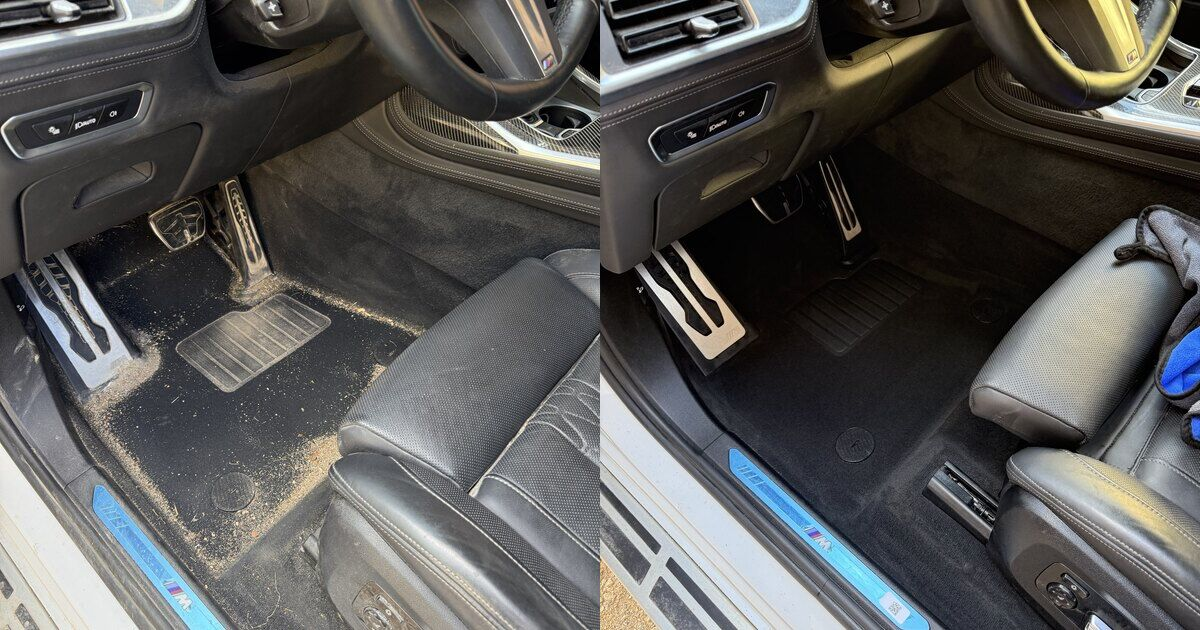
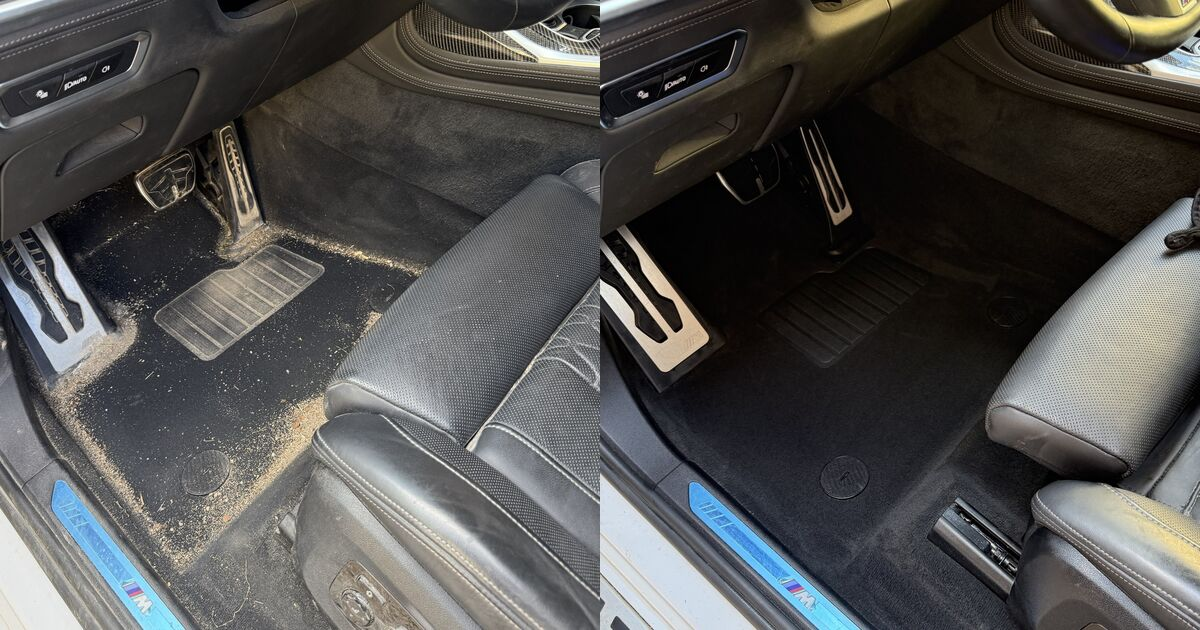
Tap-to-reveal before/after photos with aligned crops
Before photos are warped onto the after photos (SIFT + homography) and
cropped to the same 4:5 frame, so the wipe shows only what changed.

Claude-Session: https://claude.ai/code/session_01RYSB4jk7B3cR4GPf7nR2uH

diff --git a/richcarsdetailing/dist/index.html b/richcarsdetailing/dist/index.html
@@ -28,7 +28,8 @@
   <link rel="preload" href="fonts/manrope-latin-wght-normal.woff2" as="font" type="font/woff2" crossorigin>
   <link rel="preload" href="fonts/manrope-latin-ext-wght-normal.woff2" as="font" type="font/woff2" crossorigin>
 
-  <style>@font-face{font-family: "Manrope";font-style: normal;font-display: swap;font-weight: 200 800;src: url("fonts/manrope-latin-ext-wght-normal.woff2") format("woff2-variations");unicode-range: U+0100-02BA,U+02BD-02C5,U+02C7-02CC,U+02CE-02D7,U+02DD-02FF,U+0304,U+0308,U+0329,U+1D00-1DBF,U+1E00-1E9F,U+1EF2-1EFF,U+2020,U+20A0-20AB,U+20AD-20C0,U+2113,U+2C60-2C7F,U+A720-A7FF}@font-face{font-family: "Manrope";font-style: normal;font-display: swap;font-weight: 200 800;src: url("fonts/manrope-latin-wght-normal.woff2") format("woff2-variations");unicode-range: U+0000-00FF,U+0131,U+0152-0153,U+02BB-02BC,U+02C6,U+02DA,U+02DC,U+0304,U+0308,U+0329,U+2000-206F,U+20AC,U+2122,U+2191,U+2193,U+2212,U+2215,U+FEFF,U+FFFD}:root{--bg: #f6f3ee;--bg-tint: #ece7df;--surface: #ffffff;--ink: #1f2226;--ink-2: #4a4f56;--line: #ddd6cb;--graphite: #26292d;--on-graphite: #f6f3ee;--on-graphite-2: #c9c4bb;--wa: #14753e;--wa-hover: #0f6233;--wa-soft: #e6f2ea;--focus: #1f2226;--radius: 14px;--radius-sm: 10px;--ease-out: cubic-bezier(0.23,1,0.32,1);--gutter: 16px;--font: "Manrope",system-ui,-apple-system,"Segoe UI",Roboto,Arial,sans-serif}@media (min-width: 600px){:root{--gutter: 24px}}@media (min-width: 960px){:root{--gutter: 40px}}*,*::before,*::after{box-sizing: border-box}html{-webkit-text-size-adjust: 100%;text-size-adjust: 100%;scroll-behavior: smooth;scroll-padding-top: 16px;scroll-padding-bottom: 96px}@media (prefers-reduced-motion: reduce){html{scroll-behavior: auto}}body{margin: 0;background: var(--bg);color: var(--ink);font-family: var(--font);font-size: 1.0625rem;line-height: 1.55;-webkit-font-smoothing: antialiased;-webkit-tap-highlight-color: transparent}img{display: block;max-width: 100%;height: auto}h1,h2,h3{margin: 0;line-height: 1.12;letter-spacing: -0.02em;text-wrap: balance}p{margin: 0;text-wrap: pretty}ul,ol{margin: 0;padding: 0}[role="list"]{list-style: none}a{color: inherit;text-underline-offset: 3px;text-decoration-thickness: 1px}:focus-visible{outline: 3px solid var(--focus);outline-offset: 3px;border-radius: 6px}.section--dark :focus-visible,.sticky-cta :focus-visible{--focus: #ffffff}.skip-link{position: absolute;left: var(--gutter);top: -100px;z-index: 100;background: var(--ink);color: #fff;padding: 10px 14px;border-radius: var(--radius-sm);font-weight: 700}.skip-link:focus{top: 12px}.container{width: 100%;max-width: 1180px;margin-inline: auto;padding-inline: var(--gutter)}.container--narrow{max-width: 820px}.icon{width: 20px;height: 20px;flex: none}.site-header__inner{display: flex;align-items: center;justify-content: space-between;gap: 16px;min-height: 64px}.brand{font-weight: 800;font-size: 1.125rem;letter-spacing: -0.02em;text-decoration: none}.brand span{color: var(--ink-2);font-weight: 600}.nav{display: flex;gap: 4px;list-style: none}.nav a{display: inline-block;padding: 10px 12px;font-size: 0.9375rem;font-weight: 600;color: var(--ink-2);text-decoration: none;border-radius: 8px}@media (hover: hover) and (pointer: fine){.nav a:hover{color: var(--ink);background: var(--bg-tint)}}@media (max-width: 699px){.nav__hide-sm{display: none}}.hero{padding-block: 16px 56px}.hero__grid{display: grid;gap: 32px}.hero__copy{display: flex;flex-direction: column;align-items: flex-start;gap: 18px}.eyebrow{font-size: 0.875rem;font-weight: 600;color: var(--ink-2)}h1{font-size: clamp(2.125rem,1.55rem + 2.9vw,3.75rem);font-weight: 800}.lead{font-size: 1.125rem;color: var(--ink-2);max-width: 34em}.price-row{display: inline-flex;align-items: baseline;flex-wrap: wrap;gap: 4px 10px;padding: 12px 18px;background: var(--surface);border: 1px solid var(--line);border-radius: var(--radius);font-size: 1.0625rem;font-weight: 600}.price-row__dot{color: var(--ink-2)}.price-row__value{font-size: 1.625rem;font-weight: 800;letter-spacing: -0.02em;font-variant-numeric: tabular-nums}.cta{display: flex;flex-direction: column;align-items: flex-start;gap: 10px}.cta--center{align-items: center;text-align: center;margin-top: 40px}.cta__note{font-size: 0.9375rem;color: var(--ink-2);max-width: 30em}.link-arrow{font-weight: 700;padding: 6px 0;text-decoration: underline}.btn{display: inline-flex;align-items: center;justify-content: center;gap: 10px;min-height: 52px;padding: 14px 22px;border-radius: 999px;border: 2px solid transparent;font: inherit;font-weight: 700;font-size: 1.0625rem;line-height: 1.2;text-decoration: none;cursor: pointer;user-select: none;-webkit-user-select: none;transition: transform 160ms var(--ease-out),background-color 160ms ease,color 160ms ease,border-color 160ms ease}.btn:active{transform: scale(0.97)}.btn--wa{background: var(--wa);color: #fff}.btn--wa-outline{background: transparent;color: var(--wa);border-color: var(--wa);min-height: 48px;padding: 11px 18px;font-size: 1rem}.btn--light{background: var(--on-graphite);color: var(--graphite)}.btn--block{width: 100%}@media (hover: hover) and (pointer: fine){.btn--wa:hover{background: var(--wa-hover)}.btn--wa-outline:hover{background: var(--wa-soft)}.btn--light:hover{background: #fff}}.hero__media{margin: 0}.compare{display: grid;grid-template-columns: 1fr 1fr;gap: 8px}.compare__item{position: relative;overflow: hidden;border-radius: var(--radius);background: var(--bg-tint);aspect-ratio: 800 / 1067}.compare__item img{width: 100%;height: 100%;object-fit: cover}.tag{position: absolute;left: 10px;top: 10px;padding: 5px 11px;border-radius: 999px;background: var(--graphite);color: #fff;font-size: 0.8125rem;font-weight: 700;letter-spacing: 0.02em}.tag--light{background: #fff;color: var(--graphite)}figcaption{margin-top: 12px;font-size: 0.9375rem;color: var(--ink-2)}@media (min-width: 600px){.compare{gap: 12px}}@media (min-width: 900px){.hero{padding-block: 40px 96px}.hero__grid{grid-template-columns: 1.05fr 1fr;gap: 56px;align-items: center}.hero__copy{gap: 22px}}.section{padding-block: 64px}.section--tint{background: var(--bg-tint)}.section--dark{background: var(--graphite);color: var(--on-graphite)}.section__head{max-width: 40em;margin-bottom: 32px}.section__head h2{font-size: clamp(1.75rem,1.4rem + 1.6vw,2.5rem);font-weight: 800}.section__head p{margin-top: 12px;color: var(--ink-2)}@media (min-width: 900px){.section{padding-block: 96px}}.services{display: grid;gap: 16px}.service{display: flex;flex-direction: column;gap: 12px;padding: 24px;background: var(--surface);border: 1px solid var(--line);border-radius: var(--radius)}.service h3{font-size: 1.3125rem;font-weight: 800}.service p{color: var(--ink-2)}.service .service__price{font-size: 0.9375rem;font-weight: 600;color: var(--ink);margin-top: auto;padding-top: 4px}.service .btn{align-self: flex-start}@media (min-width: 900px){.services{grid-template-columns: repeat(3,1fr);gap: 20px}}.work{margin: 0;max-width: 900px}.steps{display: grid;gap: 16px;counter-reset: none}.step{display: grid;grid-template-columns: 44px 1fr;column-gap: 16px;row-gap: 4px;align-items: start}.step__num{grid-row: span 2;display: grid;place-items: center;width: 44px;height: 44px;border-radius: 50%;background: var(--graphite);color: #fff;font-weight: 800}.step h3{font-size: 1.1875rem;font-weight: 800;padding-top: 9px}.step p{color: var(--ink-2)}@media (min-width: 900px){.steps{grid-template-columns: repeat(3,1fr);gap: 32px}}.faq{display: grid;gap: 12px}.faq__item{padding: 22px 24px;background: var(--surface);border: 1px solid var(--line);border-radius: var(--radius)}.faq__item h3{font-size: 1.1875rem;font-weight: 800}.faq__item p{margin-top: 8px;color: var(--ink-2)}.location{display: grid;gap: 32px}.location h2{font-size: clamp(1.75rem,1.4rem + 1.6vw,2.5rem);font-weight: 800}.location__address{margin-top: 20px;font-style: normal;font-size: 1.125rem;line-height: 1.6}.location__note{margin-top: 14px;color: var(--on-graphite-2)}.location__actions{display: flex;flex-direction: column;align-items: stretch;gap: 12px}.location__phone{color: var(--on-graphite-2);margin-top: 4px}.location__phone a{color: var(--on-graphite);font-weight: 700;display: inline-block;padding: 6px 0}@media (min-width: 600px){.location__actions{align-items: flex-start}}@media (min-width: 900px){.location{grid-template-columns: 1fr 1fr;align-items: center}}.site-footer{padding-block: 32px 40px;font-size: 0.9375rem;color: var(--ink-2)}.site-footer__inner{display: grid;gap: 6px}.site-footer strong{color: var(--ink)}.site-footer a{display: inline-block;padding: 4px 0}.site-footer__small{font-size: 0.875rem}.sticky-cta{position: fixed;left: 0;right: 0;bottom: 0;z-index: 50;padding: 10px var(--gutter) calc(10px + env(safe-area-inset-bottom));background: rgba(246,243,238,0.94);border-top: 1px solid var(--line);-webkit-backdrop-filter: blur(10px);backdrop-filter: blur(10px);transform: translateY(100%);visibility: hidden;transition: transform 180ms var(--ease-out),visibility 0s linear 180ms}.sticky-cta[data-visible="true"]{transform: translateY(0);visibility: visible;transition: transform 240ms var(--ease-out),visibility 0s}.sticky-cta .btn{min-height: 48px;padding-block: 11px}@media (min-width: 900px){.sticky-cta{display: none}}@media (prefers-reduced-motion: reduce){.btn:active{transform: none}.sticky-cta{transform: none;opacity: 0;transition: opacity 160ms ease,visibility 0s linear 160ms}.sticky-cta[data-visible="true"]{opacity: 1;transition: opacity 160ms ease,visibility 0s}}@media (max-width: 599px){.hero .cta,.hero .btn--wa{width: 100%}.hero .price-row{width: 100%}.service .btn{align-self: stretch}}</style>
+  <script>document.documentElement.classList.add("js")</script>
+  <style>@font-face{font-family: "Manrope";font-style: normal;font-display: swap;font-weight: 200 800;src: url("fonts/manrope-latin-ext-wght-normal.woff2") format("woff2-variations");unicode-range: U+0100-02BA,U+02BD-02C5,U+02C7-02CC,U+02CE-02D7,U+02DD-02FF,U+0304,U+0308,U+0329,U+1D00-1DBF,U+1E00-1E9F,U+1EF2-1EFF,U+2020,U+20A0-20AB,U+20AD-20C0,U+2113,U+2C60-2C7F,U+A720-A7FF}@font-face{font-family: "Manrope";font-style: normal;font-display: swap;font-weight: 200 800;src: url("fonts/manrope-latin-wght-normal.woff2") format("woff2-variations");unicode-range: U+0000-00FF,U+0131,U+0152-0153,U+02BB-02BC,U+02C6,U+02DA,U+02DC,U+0304,U+0308,U+0329,U+2000-206F,U+20AC,U+2122,U+2191,U+2193,U+2212,U+2215,U+FEFF,U+FFFD}:root{--bg: #f6f3ee;--bg-tint: #ece7df;--surface: #ffffff;--ink: #1f2226;--ink-2: #4a4f56;--line: #ddd6cb;--graphite: #26292d;--on-graphite: #f6f3ee;--on-graphite-2: #c9c4bb;--wa: #14753e;--wa-hover: #0f6233;--wa-soft: #e6f2ea;--focus: #1f2226;--radius: 14px;--radius-sm: 10px;--ease-out: cubic-bezier(0.23,1,0.32,1);--gutter: 16px;--font: "Manrope",system-ui,-apple-system,"Segoe UI",Roboto,Arial,sans-serif}@media (min-width: 600px){:root{--gutter: 24px}}@media (min-width: 960px){:root{--gutter: 40px}}*,*::before,*::after{box-sizing: border-box}html{-webkit-text-size-adjust: 100%;text-size-adjust: 100%;scroll-behavior: smooth;scroll-padding-top: 16px;scroll-padding-bottom: 96px}@media (prefers-reduced-motion: reduce){html{scroll-behavior: auto}}body{margin: 0;background: var(--bg);color: var(--ink);font-family: var(--font);font-size: 1.0625rem;line-height: 1.55;-webkit-font-smoothing: antialiased;-webkit-tap-highlight-color: transparent}img{display: block;max-width: 100%;height: auto}h1,h2,h3{margin: 0;line-height: 1.12;letter-spacing: -0.02em;text-wrap: balance}p{margin: 0;text-wrap: pretty}ul,ol{margin: 0;padding: 0}[role="list"]{list-style: none}a{color: inherit;text-underline-offset: 3px;text-decoration-thickness: 1px}:focus-visible{outline: 3px solid var(--focus);outline-offset: 3px;border-radius: 6px}.section--dark :focus-visible,.sticky-cta :focus-visible{--focus: #ffffff}.skip-link{position: absolute;left: var(--gutter);top: -100px;z-index: 100;background: var(--ink);color: #fff;padding: 10px 14px;border-radius: var(--radius-sm);font-weight: 700}.skip-link:focus{top: 12px}.container{width: 100%;max-width: 1180px;margin-inline: auto;padding-inline: var(--gutter)}.container--narrow{max-width: 820px}.icon{width: 20px;height: 20px;flex: none}.site-header__inner{display: flex;align-items: center;justify-content: space-between;gap: 16px;min-height: 64px}.brand{font-weight: 800;font-size: 1.125rem;letter-spacing: -0.02em;text-decoration: none}.brand span{color: var(--ink-2);font-weight: 600}.nav{display: flex;gap: 4px;list-style: none}.nav a{display: inline-block;padding: 10px 12px;font-size: 0.9375rem;font-weight: 600;color: var(--ink-2);text-decoration: none;border-radius: 8px}@media (hover: hover) and (pointer: fine){.nav a:hover{color: var(--ink);background: var(--bg-tint)}}@media (max-width: 699px){.nav__hide-sm{display: none}}.hero{padding-block: 16px 56px}.hero__grid{display: grid;gap: 32px}.hero__copy{display: flex;flex-direction: column;align-items: flex-start;gap: 18px}.eyebrow{font-size: 0.875rem;font-weight: 600;color: var(--ink-2)}h1{font-size: clamp(2.125rem,1.55rem + 2.9vw,3.75rem);font-weight: 800}.lead{font-size: 1.125rem;color: var(--ink-2);max-width: 34em}.price-row{display: inline-flex;align-items: baseline;flex-wrap: wrap;gap: 4px 10px;padding: 12px 18px;background: var(--surface);border: 1px solid var(--line);border-radius: var(--radius);font-size: 1.0625rem;font-weight: 600}.price-row__dot{color: var(--ink-2)}.price-row__value{font-size: 1.625rem;font-weight: 800;letter-spacing: -0.02em;font-variant-numeric: tabular-nums}.cta{display: flex;flex-direction: column;align-items: flex-start;gap: 10px}.cta--center{align-items: center;text-align: center;margin-top: 40px}.cta__note{font-size: 0.9375rem;color: var(--ink-2);max-width: 30em}.link-arrow{font-weight: 700;padding: 6px 0;text-decoration: underline}.btn{display: inline-flex;align-items: center;justify-content: center;gap: 10px;min-height: 52px;padding: 14px 22px;border-radius: 999px;border: 2px solid transparent;font: inherit;font-weight: 700;font-size: 1.0625rem;line-height: 1.2;text-decoration: none;cursor: pointer;user-select: none;-webkit-user-select: none;transition: transform 160ms var(--ease-out),background-color 160ms ease,color 160ms ease,border-color 160ms ease}.btn:active{transform: scale(0.97)}.btn--wa{background: var(--wa);color: #fff}.btn--wa-outline{background: transparent;color: var(--wa);border-color: var(--wa);min-height: 48px;padding: 11px 18px;font-size: 1rem}.btn--light{background: var(--on-graphite);color: var(--graphite)}.btn--block{width: 100%}@media (hover: hover) and (pointer: fine){.btn--wa:hover{background: var(--wa-hover)}.btn--wa-outline:hover{background: var(--wa-soft)}.btn--light:hover{background: #fff}}.reveal-figure{margin: 0;width: 100%;max-width: 520px;margin-inline: auto}.reveal{position: relative;overflow: hidden;border-radius: var(--radius);background: var(--bg-tint);aspect-ratio: 4 / 5;-webkit-touch-callout: none;user-select: none;-webkit-user-select: none}.reveal:has(.reveal__btn:focus-visible){outline: 3px solid var(--focus);outline-offset: 3px}.reveal__layer{position: absolute;inset: 0}.reveal__layer img{width: 100%;height: 100%;object-fit: cover}.reveal__layer--after{clip-path: inset(0 0 0 0);transition: clip-path 420ms cubic-bezier(0.77,0,0.175,1)}.js .reveal:not([data-state="after"]) .reveal__layer--after{clip-path: inset(0 100% 0 0)}.js .reveal[data-state="after"] .reveal__layer--after{transition-duration: 700ms}.reveal__btn{display: none;position: absolute;inset: 0;width: 100%;margin: 0;padding: 0 0 18px;border: 0;background: transparent;cursor: pointer;align-items: flex-end;justify-content: center;font: inherit;color: inherit;-webkit-tap-highlight-color: transparent;touch-action: manipulation}.js .reveal__btn{display: flex}.reveal__btn:focus-visible{outline: none}.reveal__hint{display: inline-flex;align-items: center;gap: 8px;min-height: 44px;padding: 10px 18px;border-radius: 999px;background: rgba(31,34,38,0.86);-webkit-backdrop-filter: blur(8px);backdrop-filter: blur(8px);color: #fff;font-weight: 700;font-size: 0.9375rem;box-shadow: 0 6px 20px rgba(0,0,0,0.25);transition: transform 160ms var(--ease-out),background-color 160ms ease}.reveal__btn:active .reveal__hint{transform: scale(0.97)}@media (hover: hover) and (pointer: fine){.reveal__btn:hover .reveal__hint{background: rgba(31,34,38,0.96)}}.tag{position: absolute;left: 10px;top: 10px;padding: 5px 11px;border-radius: 999px;background: var(--graphite);color: #fff;font-size: 0.8125rem;font-weight: 700;letter-spacing: 0.02em}.tag--light{background: #fff;color: var(--graphite)}figcaption{margin-top: 12px;font-size: 0.9375rem;color: var(--ink-2)}@media (min-width: 900px){.hero{padding-block: 40px 96px}.hero__grid{grid-template-columns: 1.05fr 1fr;gap: 56px;align-items: center}.hero__copy{gap: 22px}}.section{padding-block: 64px}.section--tint{background: var(--bg-tint)}.section--dark{background: var(--graphite);color: var(--on-graphite)}.section__head{max-width: 40em;margin-bottom: 32px}.section__head h2{font-size: clamp(1.75rem,1.4rem + 1.6vw,2.5rem);font-weight: 800}.section__head p{margin-top: 12px;color: var(--ink-2)}@media (min-width: 900px){.section{padding-block: 96px}}.services{display: grid;gap: 16px}.service{display: flex;flex-direction: column;gap: 12px;padding: 24px;background: var(--surface);border: 1px solid var(--line);border-radius: var(--radius)}.service h3{font-size: 1.3125rem;font-weight: 800}.service p{color: var(--ink-2)}.service .service__price{font-size: 0.9375rem;font-weight: 600;color: var(--ink);margin-top: auto;padding-top: 4px}.service .btn{align-self: flex-start}@media (min-width: 900px){.services{grid-template-columns: repeat(3,1fr);gap: 20px}}#darbi .section__head{margin-inline: auto;text-align: center}.steps{display: grid;gap: 16px;counter-reset: none}.step{display: grid;grid-template-columns: 44px 1fr;column-gap: 16px;row-gap: 4px;align-items: start}.step__num{grid-row: span 2;display: grid;place-items: center;width: 44px;height: 44px;border-radius: 50%;background: var(--graphite);color: #fff;font-weight: 800}.step h3{font-size: 1.1875rem;font-weight: 800;padding-top: 9px}.step p{color: var(--ink-2)}@media (min-width: 900px){.steps{grid-template-columns: repeat(3,1fr);gap: 32px}}.faq{display: grid;gap: 12px}.faq__item{padding: 22px 24px;background: var(--surface);border: 1px solid var(--line);border-radius: var(--radius)}.faq__item h3{font-size: 1.1875rem;font-weight: 800}.faq__item p{margin-top: 8px;color: var(--ink-2)}.location{display: grid;gap: 32px}.location h2{font-size: clamp(1.75rem,1.4rem + 1.6vw,2.5rem);font-weight: 800}.location__address{margin-top: 20px;font-style: normal;font-size: 1.125rem;line-height: 1.6}.location__note{margin-top: 14px;color: var(--on-graphite-2)}.location__actions{display: flex;flex-direction: column;align-items: stretch;gap: 12px}.location__phone{color: var(--on-graphite-2);margin-top: 4px}.location__phone a{color: var(--on-graphite);font-weight: 700;display: inline-block;padding: 6px 0}@media (min-width: 600px){.location__actions{align-items: flex-start}}@media (min-width: 900px){.location{grid-template-columns: 1fr 1fr;align-items: center}}.site-footer{padding-block: 32px 40px;font-size: 0.9375rem;color: var(--ink-2)}.site-footer__inner{display: grid;gap: 6px}.site-footer strong{color: var(--ink)}.site-footer a{display: inline-block;padding: 4px 0}.site-footer__small{font-size: 0.875rem}.sticky-cta{position: fixed;left: 0;right: 0;bottom: 0;z-index: 50;padding: 10px var(--gutter) calc(10px + env(safe-area-inset-bottom));background: rgba(246,243,238,0.94);border-top: 1px solid var(--line);-webkit-backdrop-filter: blur(10px);backdrop-filter: blur(10px);transform: translateY(100%);visibility: hidden;transition: transform 180ms var(--ease-out),visibility 0s linear 180ms}.sticky-cta[data-visible="true"]{transform: translateY(0);visibility: visible;transition: transform 240ms var(--ease-out),visibility 0s}.sticky-cta .btn{min-height: 48px;padding-block: 11px}@media (min-width: 900px){.sticky-cta{display: none}}@media (prefers-reduced-motion: reduce){.btn:active{transform: none}.sticky-cta{transform: none;opacity: 0;transition: opacity 160ms ease,visibility 0s linear 160ms}.sticky-cta[data-visible="true"]{opacity: 1;transition: opacity 160ms ease,visibility 0s}.reveal__layer--after,.js .reveal[data-state="after"] .reveal__layer--after{clip-path: none !important;transition: opacity 200ms ease}.js .reveal:not([data-state="after"]) .reveal__layer--after{opacity: 0}.reveal__btn:active .reveal__hint{transform: none}}@media (max-width: 599px){.hero .cta,.hero .btn--wa{width: 100%}.hero .price-row{width: 100%}.service .btn{align-self: stretch}}</style>
 
   <script type="application/ld+json">{"@context":"https://schema.org","@type":"AutomotiveBusiness","@id":"https://DOMENS.lv/#business","name":"RichCarsDetailing","url":"https://DOMENS.lv/","image":"https://DOMENS.lv/img/og-pirms-pec.jpg","telephone":"+37120277006","address":{"@type":"PostalAddress","streetAddress":"Leona Paegles iela 27B","addressLocality":"Cēsis","addressRegion":"Cēsu novads","postalCode":"LV-4101","addressCountry":"LV"},"areaServed":{"@type":"City","name":"Cēsis"},"hasOfferCatalog":{"@type":"OfferCatalog","name":"Auto salona kopšanas pakalpojumi","itemListElement":[{"@type":"Offer","itemOffered":{"@type":"Service","name":"Auto salona tīrīšana"},"priceSpecification":{"@type":"PriceSpecification","minPrice":30,"maxPrice":50,"priceCurrency":"EUR"}},{"@type":"Offer","itemOffered":{"@type":"Service","name":"Salona ķīmiskā tīrīšana"}},{"@type":"Offer","itemOffered":{"@type":"Service","name":"Interjera detailings"}},{"@type":"Offer","itemOffered":{"@type":"Service","name":"Salona ozonēšana"}}]}}</script>
 </head>
@@ -75,24 +76,30 @@
           <a class="link-arrow" href="#pakalpojumi">Skatīt pakalpojumus <span aria-hidden="true">↓</span></a>
         </div>
 
-        <figure class="hero__media">
-          <div class="compare">
-            <div class="compare__item">
+        <figure class="hero__media reveal-figure">
+          <div class="reveal" data-reveal>
+            <div class="reveal__layer">
               <picture>
-                <source type="image/webp" srcset="img/bmw-pirms-480.webp 480w, img/bmw-pirms-800.webp 800w" sizes="(min-width: 1200px) 270px, (min-width: 900px) 23vw, 46vw">
-                <img src="img/bmw-pirms-800.jpg" width="800" height="1067" alt="BMW vadītāja puses grīda pirms tīrīšanas: paklājs un slieksnis klāti ar smiltīm un gružiem" loading="eager" decoding="async">
+                <source type="image/webp" srcset="img/bmw-pirms-640.webp 640w, img/bmw-pirms-1000.webp 1000w" sizes="(min-width: 1200px) 520px, (min-width: 900px) 44vw, calc(100vw - 32px)">
+                <img src="img/bmw-pirms-1000.jpg" width="1000" height="1250" alt="BMW vadītāja puses grīda pirms tīrīšanas: paklājs, pedāļu zona un slieksnis klāti ar smiltīm un gružiem" loading="eager" fetchpriority="high" decoding="async">
               </picture>
               <span class="tag">Pirms</span>
             </div>
-            <div class="compare__item">
+            <div class="reveal__layer reveal__layer--after">
               <picture>
-                <source type="image/webp" srcset="img/bmw-pec-480.webp 480w, img/bmw-pec-800.webp 800w" sizes="(min-width: 1200px) 270px, (min-width: 900px) 23vw, 46vw">
-                <img src="img/bmw-pec-800.jpg" width="800" height="1067" alt="Tā pati BMW vadītāja puse pēc tīrīšanas: tīrs paklājs, pedāļu zona un slieksnis" loading="eager" fetchpriority="high" decoding="async">
+                <source type="image/webp" srcset="img/bmw-pec-640.webp 640w, img/bmw-pec-1000.webp 1000w" sizes="(min-width: 1200px) 520px, (min-width: 900px) 44vw, calc(100vw - 32px)">
+                <img src="img/bmw-pec-1000.jpg" width="1000" height="1250" alt="Tā pati BMW vadītāja puse pēc tīrīšanas: tīrs paklājs, pedāļu zona un slieksnis" loading="eager" decoding="async">
               </picture>
               <span class="tag tag--light">Pēc</span>
             </div>
+            <button type="button" class="reveal__btn" aria-live="polite">
+              <span class="reveal__hint">
+                <svg class="icon" viewBox="0 0 24 24" aria-hidden="true" focusable="false"><path fill="none" stroke="currentColor" stroke-width="2" stroke-linecap="round" stroke-linejoin="round" d="M7 4 3 8l4 4M3 8h14M17 20l4-4-4-4M21 16H7"/></svg>
+                <span>Rādīt rezultātu</span>
+              </span>
+            </button>
           </div>
-          <figcaption>BMW vadītāja puse pirms un pēc salona tīrīšanas. Smiltis un gruži notīrīti no paklāja, pedāļu zonas un sliekšņa.</figcaption>
+          <figcaption>BMW vadītāja puse. Spied uz bildes, lai salīdzinātu pirms un pēc: smiltis un gruži notīrīti no paklāja, pedāļu zonas un sliekšņa.</figcaption>
         </figure>
       </div>
     </section>
@@ -142,25 +149,31 @@
       <div class="container">
         <header class="section__head">
           <h2 id="darbi-title">Pirms un pēc: mūsu darbs</h2>
-          <p>Viens auto, viena vieta, pirms un pēc tīrīšanas. Fotogrāfijas no RichCarsDetailing darbnīcas.</p>
+          <p>Viens auto, viens skats, pirms un pēc tīrīšanas. Spied uz bildes, lai redzētu rezultātu.</p>
         </header>
 
-        <figure class="work">
-          <div class="compare compare--wide">
-            <div class="compare__item">
+        <figure class="work reveal-figure">
+          <div class="reveal" data-reveal>
+            <div class="reveal__layer">
               <picture>
-                <source type="image/webp" srcset="img/mercedes-pirms-480.webp 480w, img/mercedes-pirms-800.webp 800w" sizes="(min-width: 960px) 440px, 46vw">
-                <img src="img/mercedes-pirms-800.jpg" width="800" height="1067" alt="Mercedes-Benz vadītāja puse pirms tīrīšanas: uz grīdas un sliekšņa smiltis un gruži" loading="lazy" decoding="async">
+                <source type="image/webp" srcset="img/mercedes-pirms-640.webp 640w, img/mercedes-pirms-1000.webp 1000w" sizes="(min-width: 600px) 520px, calc(100vw - 32px)">
+                <img src="img/mercedes-pirms-1000.jpg" width="1000" height="1250" alt="Mercedes-Benz vadītāja puse pirms tīrīšanas: uz grīdas un sliekšņa smiltis un gruži" loading="lazy" decoding="async">
               </picture>
               <span class="tag">Pirms</span>
             </div>
-            <div class="compare__item">
+            <div class="reveal__layer reveal__layer--after">
               <picture>
-                <source type="image/webp" srcset="img/mercedes-pec-480.webp 480w, img/mercedes-pec-800.webp 800w" sizes="(min-width: 960px) 440px, 46vw">
-                <img src="img/mercedes-pec-800.jpg" width="800" height="1067" alt="Tā pati Mercedes-Benz vadītāja puse pēc tīrīšanas: tīra grīda un slieksnis" loading="lazy" decoding="async">
+                <source type="image/webp" srcset="img/mercedes-pec-640.webp 640w, img/mercedes-pec-1000.webp 1000w" sizes="(min-width: 600px) 520px, calc(100vw - 32px)">
+                <img src="img/mercedes-pec-1000.jpg" width="1000" height="1250" alt="Tā pati Mercedes-Benz vadītāja puse pēc tīrīšanas: tīra grīda un slieksnis" loading="lazy" decoding="async">
               </picture>
               <span class="tag tag--light">Pēc</span>
             </div>
+            <button type="button" class="reveal__btn" aria-live="polite">
+              <span class="reveal__hint">
+                <svg class="icon" viewBox="0 0 24 24" aria-hidden="true" focusable="false"><path fill="none" stroke="currentColor" stroke-width="2" stroke-linecap="round" stroke-linejoin="round" d="M7 4 3 8l4 4M3 8h14M17 20l4-4-4-4M21 16H7"/></svg>
+                <span>Rādīt rezultātu</span>
+              </span>
+            </button>
           </div>
           <figcaption>Mercedes-Benz vadītāja puse. No grīdas, pedāļu zonas un sliekšņa notīrītas smiltis un gruži.</figcaption>
         </figure>
@@ -300,6 +313,19 @@
     update();
   });
   guarded.forEach(function (el) { guardObserver.observe(el); });
+})();
+
+// Before/after: tap or click the photo to wipe in the result, again to go back.
+(function () {
+  document.querySelectorAll("[data-reveal]").forEach(function (box) {
+    var btn = box.querySelector(".reveal__btn");
+    var label = btn.querySelector(".reveal__hint span");
+    btn.addEventListener("click", function () {
+      var showAfter = box.dataset.state !== "after";
+      box.dataset.state = showAfter ? "after" : "before";
+      label.textContent = showAfter ? "Rādīt, kā bija" : "Rādīt rezultātu";
+    });
+  });
 })();</script>
 </body>
 </html>

diff --git a/richcarsdetailing/src/index.html b/richcarsdetailing/src/index.html
@@ -28,6 +28,7 @@
   <link rel="preload" href="fonts/manrope-latin-wght-normal.woff2" as="font" type="font/woff2" crossorigin>
   <link rel="preload" href="fonts/manrope-latin-ext-wght-normal.woff2" as="font" type="font/woff2" crossorigin>
 
+  <script>document.documentElement.classList.add("js")</script>
   <style>{{inlineCss}}</style>
 
   <script type="application/ld+json">{{jsonLd}}</script>
@@ -75,24 +76,30 @@
           <a class="link-arrow" href="#pakalpojumi">Skatīt pakalpojumus <span aria-hidden="true">↓</span></a>
         </div>
 
-        <figure class="hero__media">
-          <div class="compare">
-            <div class="compare__item">
+        <figure class="hero__media reveal-figure">
+          <div class="reveal" data-reveal>
+            <div class="reveal__layer">
               <picture>
-                <source type="image/webp" srcset="img/bmw-pirms-480.webp 480w, img/bmw-pirms-800.webp 800w" sizes="(min-width: 1200px) 270px, (min-width: 900px) 23vw, 46vw">
-                <img src="img/bmw-pirms-800.jpg" width="800" height="1067" alt="BMW vadītāja puses grīda pirms tīrīšanas: paklājs un slieksnis klāti ar smiltīm un gružiem" loading="eager" decoding="async">
+                <source type="image/webp" srcset="img/bmw-pirms-640.webp 640w, img/bmw-pirms-1000.webp 1000w" sizes="(min-width: 1200px) 520px, (min-width: 900px) 44vw, calc(100vw - 32px)">
+                <img src="img/bmw-pirms-1000.jpg" width="1000" height="1250" alt="BMW vadītāja puses grīda pirms tīrīšanas: paklājs, pedāļu zona un slieksnis klāti ar smiltīm un gružiem" loading="eager" fetchpriority="high" decoding="async">
               </picture>
               <span class="tag">Pirms</span>
             </div>
-            <div class="compare__item">
+            <div class="reveal__layer reveal__layer--after">
               <picture>
-                <source type="image/webp" srcset="img/bmw-pec-480.webp 480w, img/bmw-pec-800.webp 800w" sizes="(min-width: 1200px) 270px, (min-width: 900px) 23vw, 46vw">
-                <img src="img/bmw-pec-800.jpg" width="800" height="1067" alt="Tā pati BMW vadītāja puse pēc tīrīšanas: tīrs paklājs, pedāļu zona un slieksnis" loading="eager" fetchpriority="high" decoding="async">
+                <source type="image/webp" srcset="img/bmw-pec-640.webp 640w, img/bmw-pec-1000.webp 1000w" sizes="(min-width: 1200px) 520px, (min-width: 900px) 44vw, calc(100vw - 32px)">
+                <img src="img/bmw-pec-1000.jpg" width="1000" height="1250" alt="Tā pati BMW vadītāja puse pēc tīrīšanas: tīrs paklājs, pedāļu zona un slieksnis" loading="eager" decoding="async">
               </picture>
               <span class="tag tag--light">Pēc</span>
             </div>
+            <button type="button" class="reveal__btn" aria-live="polite">
+              <span class="reveal__hint">
+                <svg class="icon" viewBox="0 0 24 24" aria-hidden="true" focusable="false"><path fill="none" stroke="currentColor" stroke-width="2" stroke-linecap="round" stroke-linejoin="round" d="M7 4 3 8l4 4M3 8h14M17 20l4-4-4-4M21 16H7"/></svg>
+                <span>Rādīt rezultātu</span>
+              </span>
+            </button>
           </div>
-          <figcaption>BMW vadītāja puse pirms un pēc salona tīrīšanas. Smiltis un gruži notīrīti no paklāja, pedāļu zonas un sliekšņa.</figcaption>
+          <figcaption>BMW vadītāja puse. Spied uz bildes, lai salīdzinātu pirms un pēc: smiltis un gruži notīrīti no paklāja, pedāļu zonas un sliekšņa.</figcaption>
         </figure>
       </div>
     </section>
@@ -142,25 +149,31 @@
       <div class="container">
         <header class="section__head">
           <h2 id="darbi-title">Pirms un pēc: mūsu darbs</h2>
-          <p>Viens auto, viena vieta, pirms un pēc tīrīšanas. Fotogrāfijas no RichCarsDetailing darbnīcas.</p>
+          <p>Viens auto, viens skats, pirms un pēc tīrīšanas. Spied uz bildes, lai redzētu rezultātu.</p>
         </header>
 
-        <figure class="work">
-          <div class="compare compare--wide">
-            <div class="compare__item">
+        <figure class="work reveal-figure">
+          <div class="reveal" data-reveal>
+            <div class="reveal__layer">
               <picture>
-                <source type="image/webp" srcset="img/mercedes-pirms-480.webp 480w, img/mercedes-pirms-800.webp 800w" sizes="(min-width: 960px) 440px, 46vw">
-                <img src="img/mercedes-pirms-800.jpg" width="800" height="1067" alt="Mercedes-Benz vadītāja puse pirms tīrīšanas: uz grīdas un sliekšņa smiltis un gruži" loading="lazy" decoding="async">
+                <source type="image/webp" srcset="img/mercedes-pirms-640.webp 640w, img/mercedes-pirms-1000.webp 1000w" sizes="(min-width: 600px) 520px, calc(100vw - 32px)">
+                <img src="img/mercedes-pirms-1000.jpg" width="1000" height="1250" alt="Mercedes-Benz vadītāja puse pirms tīrīšanas: uz grīdas un sliekšņa smiltis un gruži" loading="lazy" decoding="async">
               </picture>
               <span class="tag">Pirms</span>
             </div>
-            <div class="compare__item">
+            <div class="reveal__layer reveal__layer--after">
               <picture>
-                <source type="image/webp" srcset="img/mercedes-pec-480.webp 480w, img/mercedes-pec-800.webp 800w" sizes="(min-width: 960px) 440px, 46vw">
-                <img src="img/mercedes-pec-800.jpg" width="800" height="1067" alt="Tā pati Mercedes-Benz vadītāja puse pēc tīrīšanas: tīra grīda un slieksnis" loading="lazy" decoding="async">
+                <source type="image/webp" srcset="img/mercedes-pec-640.webp 640w, img/mercedes-pec-1000.webp 1000w" sizes="(min-width: 600px) 520px, calc(100vw - 32px)">
+                <img src="img/mercedes-pec-1000.jpg" width="1000" height="1250" alt="Tā pati Mercedes-Benz vadītāja puse pēc tīrīšanas: tīra grīda un slieksnis" loading="lazy" decoding="async">
               </picture>
               <span class="tag tag--light">Pēc</span>
             </div>
+            <button type="button" class="reveal__btn" aria-live="polite">
+              <span class="reveal__hint">
+                <svg class="icon" viewBox="0 0 24 24" aria-hidden="true" focusable="false"><path fill="none" stroke="currentColor" stroke-width="2" stroke-linecap="round" stroke-linejoin="round" d="M7 4 3 8l4 4M3 8h14M17 20l4-4-4-4M21 16H7"/></svg>
+                <span>Rādīt rezultātu</span>
+              </span>
+            </button>
           </div>
           <figcaption>Mercedes-Benz vadītāja puse. No grīdas, pedāļu zonas un sliekšņa notīrītas smiltis un gruži.</figcaption>
         </figure>

diff --git a/richcarsdetailing/src/styles.css b/richcarsdetailing/src/styles.css
@@ -208,16 +208,68 @@ h1 {
 }
 
 /* Before / after */
-.hero__media { margin: 0; }
-.compare { display: grid; grid-template-columns: 1fr 1fr; gap: 8px; }
-.compare__item {
+.reveal-figure { margin: 0; width: 100%; max-width: 520px; margin-inline: auto; }
+.reveal {
   position: relative;
   overflow: hidden;
   border-radius: var(--radius);
   background: var(--bg-tint);
-  aspect-ratio: 800 / 1067;
+  aspect-ratio: 4 / 5;
+  -webkit-touch-callout: none;
+  user-select: none;
+  -webkit-user-select: none;
 }
-.compare__item img { width: 100%; height: 100%; object-fit: cover; }
+.reveal:has(.reveal__btn:focus-visible) { outline: 3px solid var(--focus); outline-offset: 3px; }
+.reveal__layer { position: absolute; inset: 0; }
+.reveal__layer img { width: 100%; height: 100%; object-fit: cover; }
+
+/* "Pēc" wipes in from the left over "Pirms". Without JS the result is simply shown. */
+.reveal__layer--after {
+  clip-path: inset(0 0 0 0);
+  transition: clip-path 420ms cubic-bezier(0.77, 0, 0.175, 1);
+}
+.js .reveal:not([data-state="after"]) .reveal__layer--after { clip-path: inset(0 100% 0 0); }
+.js .reveal[data-state="after"] .reveal__layer--after { transition-duration: 700ms; }
+
+.reveal__btn {
+  display: none;
+  position: absolute;
+  inset: 0;
+  width: 100%;
+  margin: 0;
+  padding: 0 0 18px;
+  border: 0;
+  background: transparent;
+  cursor: pointer;
+  align-items: flex-end;
+  justify-content: center;
+  font: inherit;
+  color: inherit;
+  -webkit-tap-highlight-color: transparent;
+  touch-action: manipulation;
+}
+.js .reveal__btn { display: flex; }
+.reveal__btn:focus-visible { outline: none; }
+.reveal__hint {
+  display: inline-flex;
+  align-items: center;
+  gap: 8px;
+  min-height: 44px;
+  padding: 10px 18px;
+  border-radius: 999px;
+  background: rgba(31, 34, 38, 0.86);
+  -webkit-backdrop-filter: blur(8px);
+  backdrop-filter: blur(8px);
+  color: #fff;
+  font-weight: 700;
+  font-size: 0.9375rem;
+  box-shadow: 0 6px 20px rgba(0, 0, 0, 0.25);
+  transition: transform 160ms var(--ease-out), background-color 160ms ease;
+}
+.reveal__btn:active .reveal__hint { transform: scale(0.97); }
+@media (hover: hover) and (pointer: fine) {
+  .reveal__btn:hover .reveal__hint { background: rgba(31, 34, 38, 0.96); }
+}
 .tag {
   position: absolute;
   left: 10px;
@@ -237,7 +289,6 @@ figcaption {
   color: var(--ink-2);
 }
 
-@media (min-width: 600px) { .compare { gap: 12px; } }
 
 @media (min-width: 900px) {
   .hero { padding-block: 40px 96px; }
@@ -272,7 +323,7 @@ figcaption {
 @media (min-width: 900px) { .services { grid-template-columns: repeat(3, 1fr); gap: 20px; } }
 
 /* Work */
-.work { margin: 0; max-width: 900px; }
+#darbi .section__head { margin-inline: auto; text-align: center; }
 
 /* Steps */
 .steps { display: grid; gap: 16px; counter-reset: none; }
@@ -359,6 +410,11 @@ figcaption {
   .btn:active { transform: none; }
   .sticky-cta { transform: none; opacity: 0; transition: opacity 160ms ease, visibility 0s linear 160ms; }
   .sticky-cta[data-visible="true"] { opacity: 1; transition: opacity 160ms ease, visibility 0s; }
+  /* Crossfade instead of a moving wipe */
+  .reveal__layer--after,
+  .js .reveal[data-state="after"] .reveal__layer--after { clip-path: none !important; transition: opacity 200ms ease; }
+  .js .reveal:not([data-state="after"]) .reveal__layer--after { opacity: 0; }
+  .reveal__btn:active .reveal__hint { transform: none; }
 }
 
 @media (max-width: 599px) {

diff --git a/richcarsdetailing/src/main.js b/richcarsdetailing/src/main.js
@@ -34,3 +34,16 @@
   });
   guarded.forEach(function (el) { guardObserver.observe(el); });
 })();
+
+// Before/after: tap or click the photo to wipe in the result, again to go back.
+(function () {
+  document.querySelectorAll("[data-reveal]").forEach(function (box) {
+    var btn = box.querySelector(".reveal__btn");
+    var label = btn.querySelector(".reveal__hint span");
+    btn.addEventListener("click", function () {
+      var showAfter = box.dataset.state !== "after";
+      box.dataset.state = showAfter ? "after" : "before";
+      label.textContent = showAfter ? "Rādīt, kā bija" : "Rādīt rezultātu";
+    });
+  });
+})();
